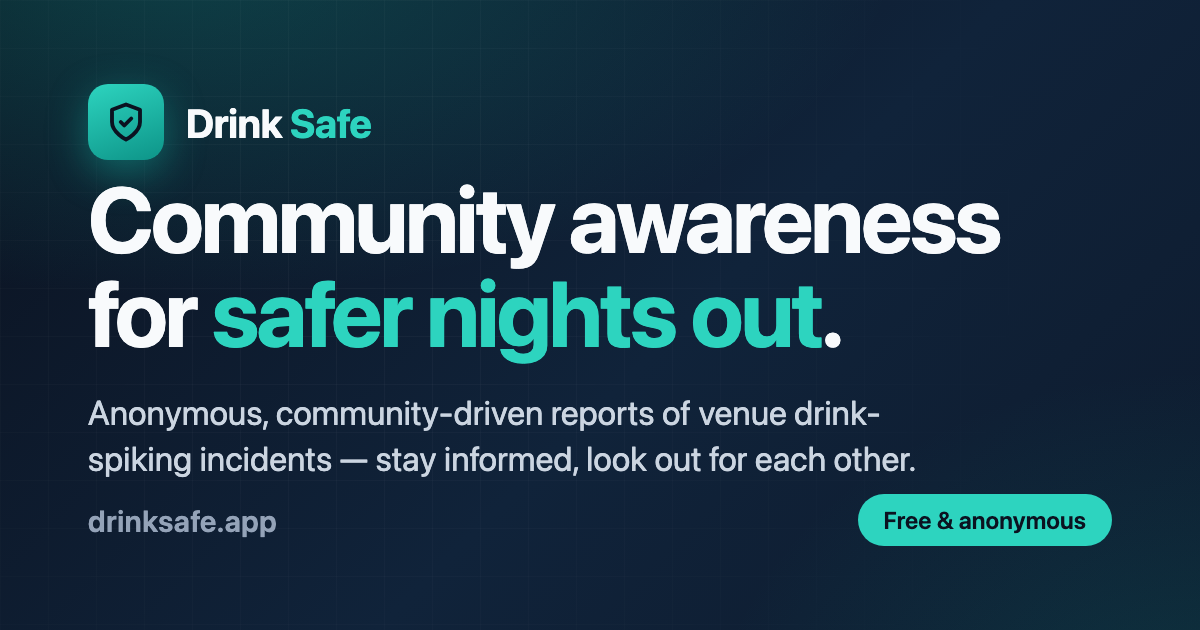
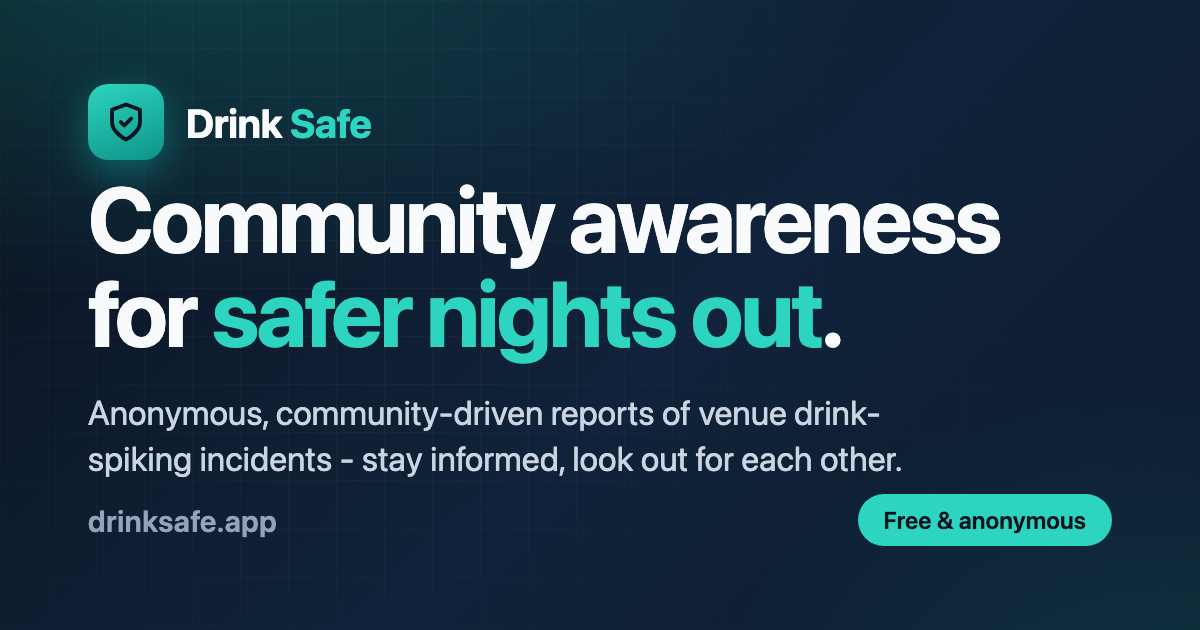
Replace em-dashes with hyphens in SEO copy
The page titles, meta descriptions, and OG image tagline used em-dashes,
which read as generic AI-generated copy. Swap them for plain hyphens
across the SEO controllers and regenerate og-image.png to match.

Changed region(s): [[0.2775, 0.6937, 0.7708, 0.754]]

diff --git a/src/DrinkSafe/Shared/Controllers/HomeController.php b/src/DrinkSafe/Shared/Controllers/HomeController.php
@@ -38,8 +38,8 @@ final class HomeController extends Controller
         $recentReports = $this->reportService->getRecentReports(5);
 
         $seo = Seo::default()
-            ->withTitle('Drink Safe — Community Spiking Reports & Venue Safety')
-            ->withDescription('Drink Safe is a free, anonymous community platform for viewing and reporting drink-spiking incidents at UK venues — stay informed and safer on nights out.');
+            ->withTitle('Drink Safe - Community Spiking Reports & Venue Safety')
+            ->withDescription('Drink Safe is a free, anonymous community platform for viewing and reporting drink-spiking incidents at UK venues - stay informed and safer on nights out.');
 
         return Inertia::render('Home', [
             'seo' => $seo->toArray(),

diff --git a/src/DrinkSafe/Shared/Controllers/AboutController.php b/src/DrinkSafe/Shared/Controllers/AboutController.php
@@ -25,8 +25,8 @@ final class AboutController extends Controller
     public function __invoke(): Response
     {
         $seo = Seo::default()
-            ->withTitle('About Drink Safe — How the Platform Works')
-            ->withDescription('Learn how Drink Safe works — an anonymous, community-driven platform for sharing and viewing drink-spiking reports to help people stay safe on nights out.');
+            ->withTitle('About Drink Safe - How the Platform Works')
+            ->withDescription('Learn how Drink Safe works - an anonymous, community-driven platform for sharing and viewing drink-spiking reports to help people stay safe on nights out.');
 
         return Inertia::render('About', [
             'seo' => $seo->toArray(),

diff --git a/src/DrinkSafe/Shared/Controllers/SupportController.php b/src/DrinkSafe/Shared/Controllers/SupportController.php
@@ -25,8 +25,8 @@ final class SupportController extends Controller
     public function __invoke(): Response
     {
         $seo = Seo::default()
-            ->withTitle('Support Drink Safe — Help Keep People Safe')
-            ->withDescription('Support Drink Safe with a donation to help cover hosting, security, and development costs — keeping this community safety platform free for everyone.');
+            ->withTitle('Support Drink Safe - Help Keep People Safe')
+            ->withDescription('Support Drink Safe with a donation to help cover hosting, security, and development costs - keeping this community safety platform free for everyone.');
 
         return Inertia::render('Support', [
             'seo' => $seo->toArray(),

diff --git a/src/DrinkSafe/Shared/Controllers/MapController.php b/src/DrinkSafe/Shared/Controllers/MapController.php
@@ -54,7 +54,7 @@ final class MapController extends Controller
         $venues = $this->resolveVenues($search, $city, $bounds);
 
         $seo = Seo::default()
-            ->withTitle('Interactive Venue Safety Map — Drink Safe')
+            ->withTitle('Interactive Venue Safety Map - Drink Safe')
             ->withDescription('Explore an interactive map of community-submitted drink-spiking reports across UK venues. Search by city or venue to see safety information near you.');
 
         return Inertia::render('Map', [

diff --git a/src/DrinkSafe/Shared/Controllers/AnalyticsController.php b/src/DrinkSafe/Shared/Controllers/AnalyticsController.php
@@ -33,7 +33,7 @@ final class AnalyticsController extends Controller
             ->toArray();
 
         $seo = Seo::default()
-            ->withTitle('Spiking Incident Analytics & Trends — Drink Safe')
+            ->withTitle('Spiking Incident Analytics & Trends - Drink Safe')
             ->withDescription('Explore time-based analytics on community-reported drink-spiking incidents. Discover temporal patterns and trends by city to understand venue safety.');
 
         return Inertia::render('Analytics', [

diff --git a/src/DrinkSafe/Shared/Controllers/PrivacyController.php b/src/DrinkSafe/Shared/Controllers/PrivacyController.php
@@ -25,7 +25,7 @@ final class PrivacyController extends Controller
     public function __invoke(): Response
     {
         $seo = Seo::default()
-            ->withTitle('Privacy Policy — Drink Safe')
+            ->withTitle('Privacy Policy - Drink Safe')
             ->withDescription('Read the Drink Safe privacy policy to understand how we protect your anonymity and handle data across our community drink-spiking awareness platform.');
 
         return Inertia::render('Privacy', [

diff --git a/src/DrinkSafe/Shared/Controllers/TermsController.php b/src/DrinkSafe/Shared/Controllers/TermsController.php
@@ -25,7 +25,7 @@ final class TermsController extends Controller
     public function __invoke(): Response
     {
         $seo = Seo::default()
-            ->withTitle('Terms of Service — Drink Safe')
+            ->withTitle('Terms of Service - Drink Safe')
             ->withDescription('Read the Drink Safe terms of service covering acceptable use, community reporting guidelines, and your responsibilities when using the platform.');
 
         return Inertia::render('Terms', [

diff --git a/src/DrinkSafe/Reports/Controllers/SubmitReportController.php b/src/DrinkSafe/Reports/Controllers/SubmitReportController.php
@@ -43,7 +43,7 @@ final class SubmitReportController extends Controller
         $venues = Venue::orderBy('name')->get();
 
         $seo = Seo::default()
-            ->withTitle('Submit a Report — Drink Safe')
+            ->withTitle('Submit a Report - Drink Safe')
             ->withDescription('Anonymously report a drink-spiking incident at a venue to help keep the community informed and safe.')
             ->noindex();
 

diff --git a/src/DrinkSafe/Venues/Controllers/VenueDetailController.php b/src/DrinkSafe/Venues/Controllers/VenueDetailController.php
@@ -59,7 +59,7 @@ final class VenueDetailController extends Controller
         );
 
         $title = sprintf(
-            '%s, %s — community safety reports | Drink Safe',
+            '%s, %s - community safety reports | Drink Safe',
             Str::limit($venue->name, 40),
             $venue->city,
         );
